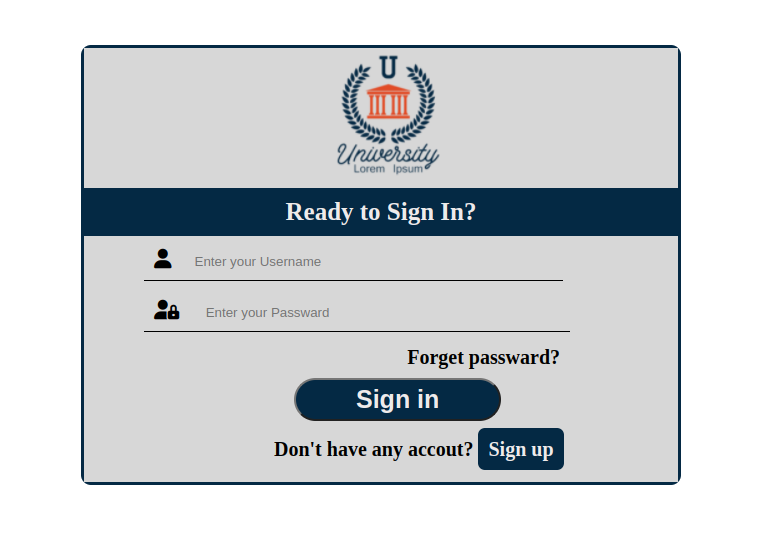
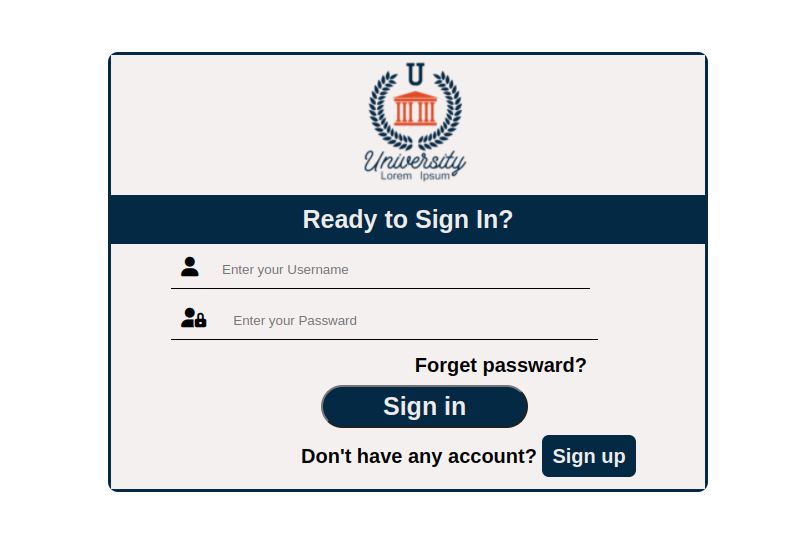
completely done

diff --git a/task1/style.css b/task1/style.css
@@ -18,10 +18,11 @@
    left: 350px;
    border:3px solid #042944 ;
    border-radius: 10px;
+   font-family: helvetica;
 }
 .logo{
     height: 140px;
-    background-color: #d7d7d7;
+    background-color: #f5f0f0;
 }
 
 .logo img{
@@ -29,7 +30,7 @@
     padding-left: 220px;
 }
 .dashboard{
-    background-color:#d7d7d7;
+    background-color:#f5f0f0;
     height: 294px;
     position: relative;
 }
@@ -56,7 +57,7 @@
     margin: 10px;
     border: none;
     outline: none;
-    background-color: #d7d7d7;
+    background-color: #f5f0f0;
 }
 
 .text1{
